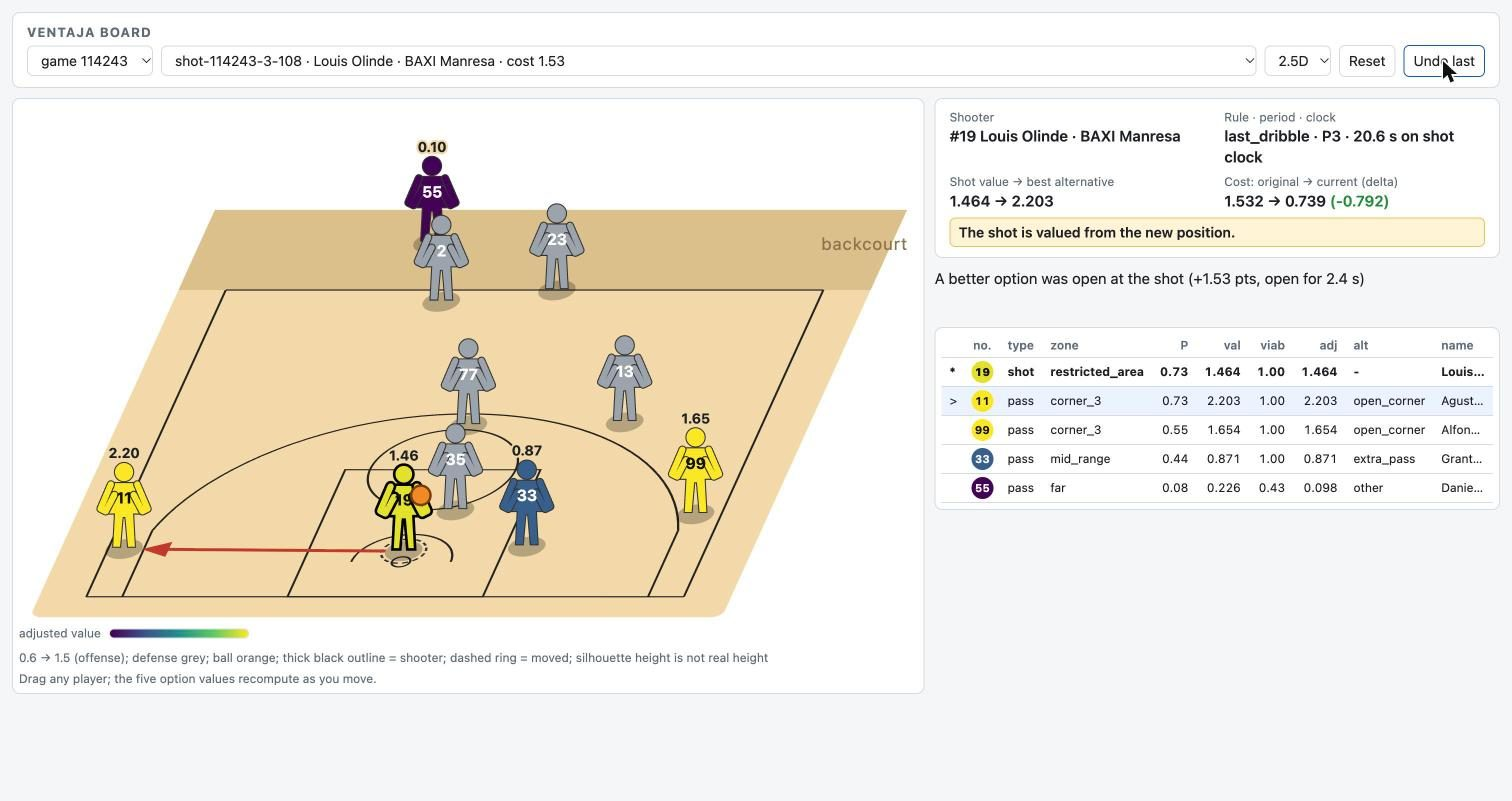
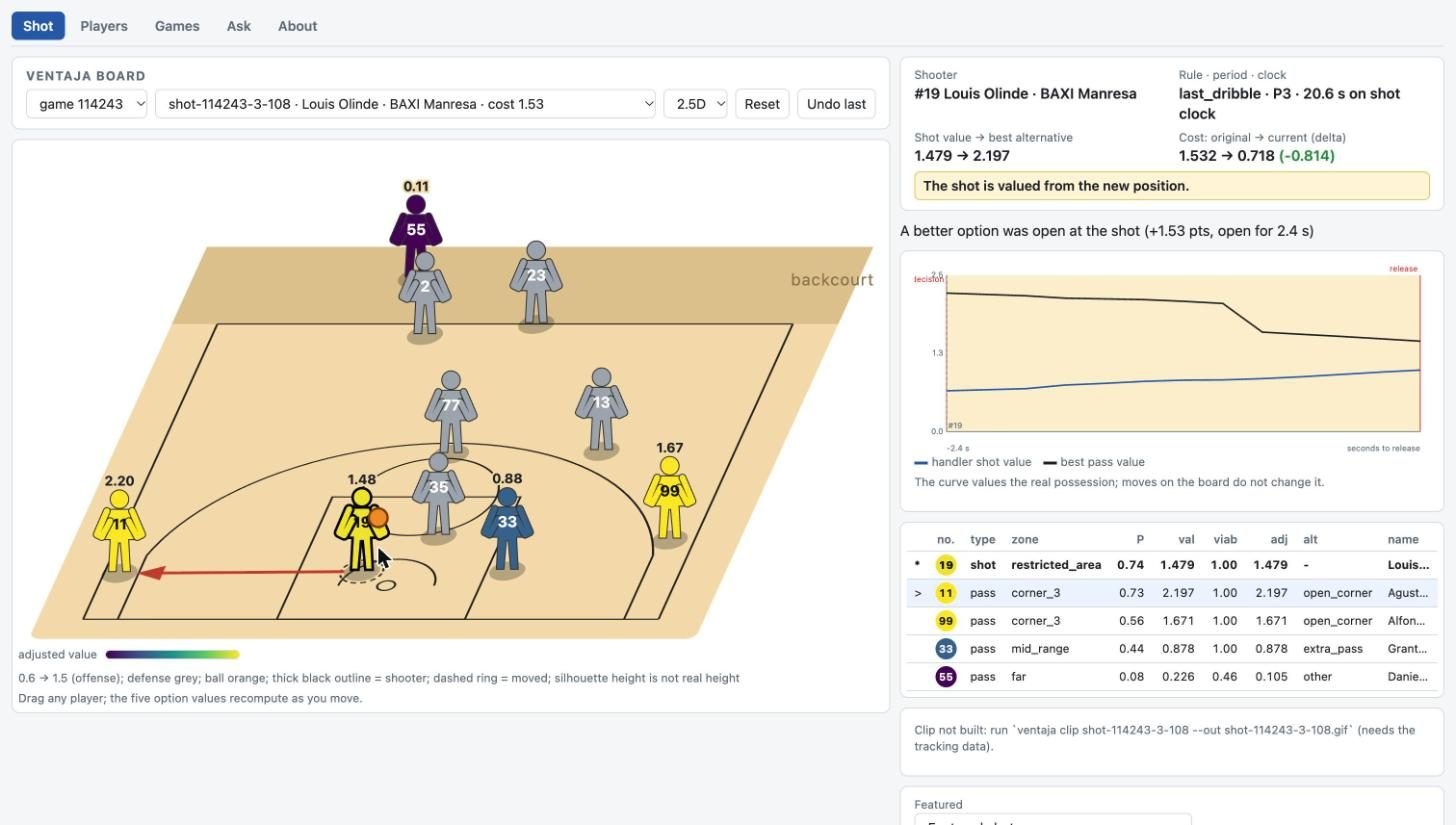
docs: README figure recaptured inside the app
Claude-Session: https://claude.ai/code/session_01KuNtc2QYzofa8RWtEfPxnq

diff --git a/README.md b/README.md
@@ -98,7 +98,7 @@ One local page opens on the Shot view: the whiteboard beside the advantage curve
 
 ![Whiteboard with the shooter dragged into the restricted area](docs/figures/board-shot-114243-3-108.jpg)
 
-*Louis Olinde dragged into the restricted area: the decision cost falls from 1.53 to 0.74.*
+*Louis Olinde dragged into the restricted area: the decision cost falls from 1.53 to 0.72.*
 
 ## Ask the court
 
